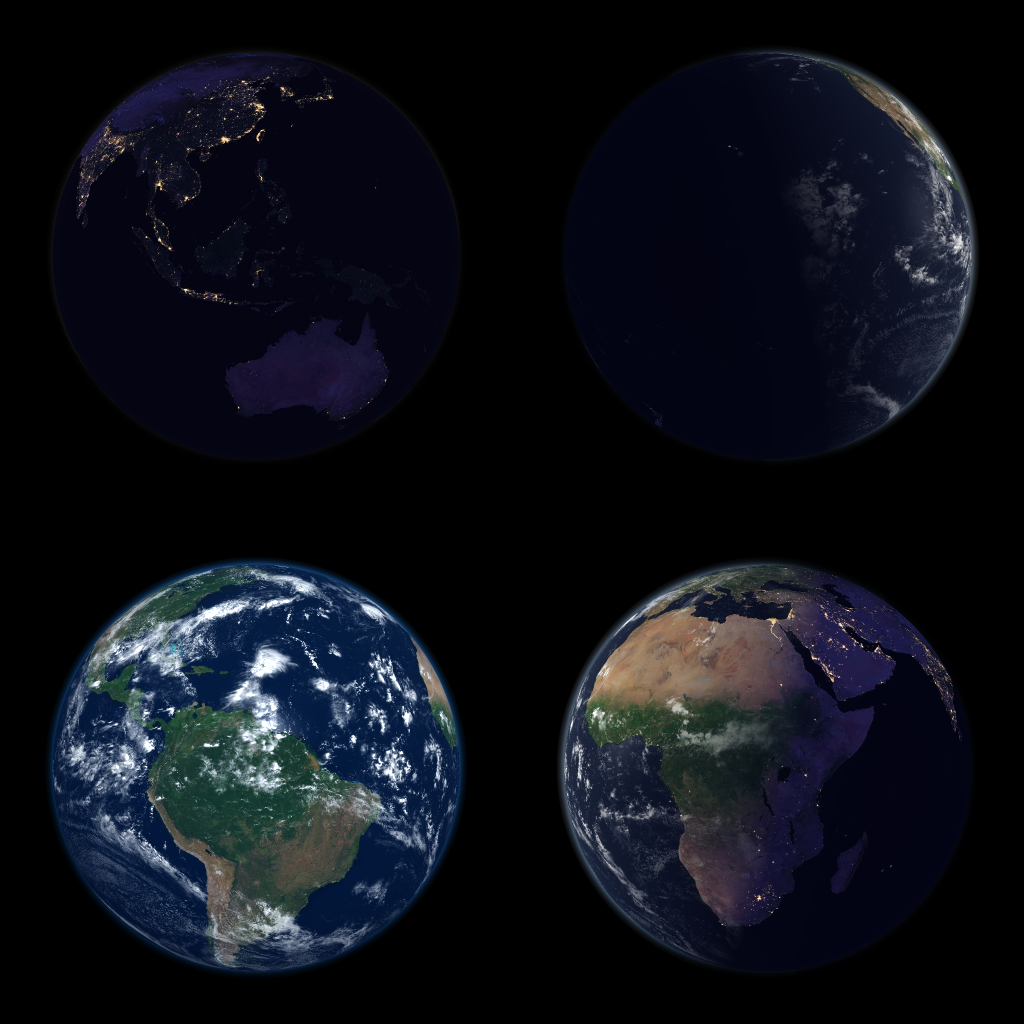
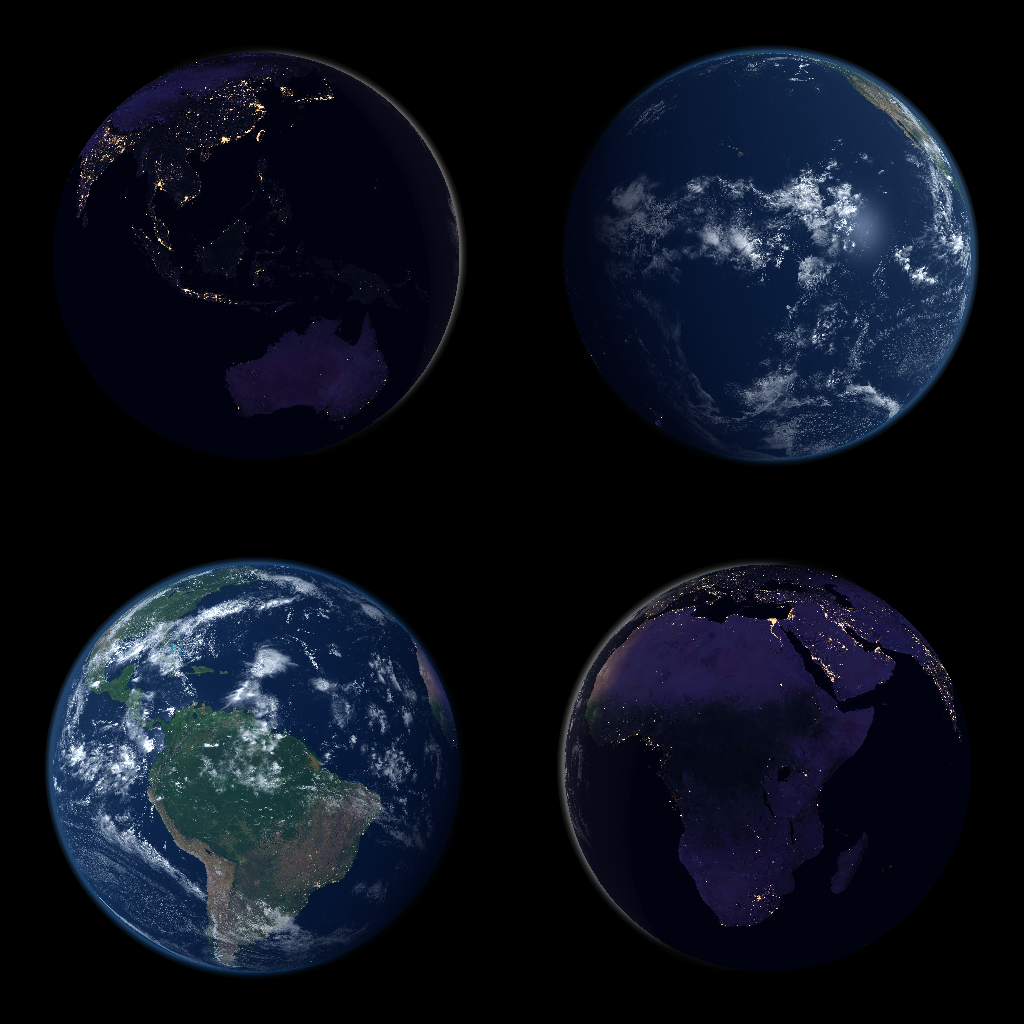
x

diff --git a/render/renderer.go b/render/renderer.go
@@ -77,16 +77,15 @@ func BlendNightDay(ctx *RayContext, CDay, CNight colors.Color4, light float64) c
 // Compute how much sunlight is hitting the surface (soft transition)
 func getLightIntensity(extendedSurfaceNormal, sunDir vectors.Vec3) float64 {
 	sunLightIntensity := extendedSurfaceNormal.Dot(sunDir)
-	light := Smoothstep(-0.25, 0.05, sunLightIntensity)
-	width := 0.2
-	if sunLightIntensity < width/2 {
-		// this is supposed to fade out light as it goes
-		// into the shadow
-		// width -> -width
-		// width -> 0
-		light *= Clip((sunLightIntensity+width/2)/width, 0, 1)
-	}
-	return light
+	// width := 0.2
+	// if math.Abs(sunLightIntensity) < width/2 {
+	// 	// this is supposed to fade out light as it goes
+	// 	// into the shadow
+	// 	return Clip((sunLightIntensity+width/2)/width, 0, 1)
+	// }
+
+	// return sunLightIntensity
+	return Clip(sunLightIntensity, 0, 1)
 }
 
 // RenderEarthSurface renders the visible surface color at the intersection point.
@@ -266,8 +265,8 @@ func RenderScene(
 // ApplyAtmosphereOverlay simulates atmospheric scattering along the view ray using ray tracing.
 // It accounts for Rayleigh scattering, Earth's shadow, backlighting, and rays passing through thin air.
 func ApplyAtmosphereOverlay(ctx *RayContext, base colors.Color4) colors.Color4 {
-	const H = 100.0
-	const rayleighStrength = 0.08
+	const H = 80.0
+	const rayleighStrength = 0.3
 
 	if !ctx.HitsAtmosphere {
 		return base
@@ -275,7 +274,8 @@ func ApplyAtmosphereOverlay(ctx *RayContext, base colors.Color4) colors.Color4 {
 
 	hitShadow, tShadowEntry, tShadowExit := intersectHalfCylinderForward(ctx.Origin, ctx.RayDir, ctx.SunDir.Scale(-1), earth.Radius)
 
-	litLen := ctx.AtmosphereExitT - ctx.AtmosphereEntryT
+	pathInAtmosphere := ctx.AtmosphereExitT - ctx.AtmosphereEntryT
+	litLen := pathInAtmosphere
 	unlitLen := 0.0
 	if hitShadow {
 		shadowStart := math.Max(ctx.AtmosphereEntryT, tShadowEntry)
@@ -283,17 +283,8 @@ func ApplyAtmosphereOverlay(ctx *RayContext, base colors.Color4) colors.Color4 {
 
 		if shadowEnd > shadowStart {
 			shadowLen := shadowEnd - shadowStart
-
-			if litLen > shadowLen && !ctx.HitEarth {
-				// skip the area that is pure air but partially affected by shadow
-				// without this we have an ugly V shape where the atmosphere fades into darkness
-				// with darkess bitween the surface of the planet and the lit upper region
-				// alphaCorr = math.Exp(-shadowLen)
-
-			} else {
-				litLen -= shadowLen
-				unlitLen += shadowLen
-			}
+			litLen -= shadowLen
+			unlitLen += shadowLen
 		}
 	}
 
@@ -301,20 +292,26 @@ func ApplyAtmosphereOverlay(ctx *RayContext, base colors.Color4) colors.Color4 {
 		return base
 	}
 
-	tMid := (ctx.AtmosphereExitT + ctx.AtmosphereEntryT) * 0.5
+	tMid := (ctx.AtmosphereEntryT + ctx.AtmosphereExitT) * 0.5
+
+	lightIntensity := 1.0
 	midPoint := ctx.Origin.Add(ctx.RayDir.Scale(tMid))
 	avgHeight := midPoint.Norm() - earth.Radius
+	entryNormal := ctx.Origin.Add(ctx.RayDir.Scale(ctx.AtmosphereEntryT)).Normalize()
+	litAmount := math.Log(litLen)
+
+	lightIntensity = getLightIntensity(entryNormal, ctx.SunDir)
+	if !ctx.HitEarth {
+		// sun can lit from the back of the planet
+		exitNormal := ctx.Origin.Add(ctx.RayDir.Scale(ctx.AtmosphereExitT)).Normalize()
+		l2 := getLightIntensity(exitNormal, ctx.SunDir)
+		lightIntensity = math.Max(lightIntensity, l2)
+	}
+
 	avgDensity := math.Exp(-avgHeight / H)
 
-	// Light amount modulated by density
-	litAmount := math.Log(litLen+unlitLen) * avgDensity * rayleighStrength
-	litAmount = Clip(litAmount, 0.0, 1.0)
-
-	if !ctx.HitEarth {
-		litAmount *= getLightIntensity(midPoint.Normalize(), ctx.SunDir)
-	} else {
-		litAmount *= getLightIntensity(ctx.SurfaceNormal, ctx.SunDir)
-	}
+	litAmount *= (0.1 + lightIntensity) * avgDensity * rayleighStrength
+	litAmount = Clip(litAmount, 0, 1)
 
 	// Hue shift: warm when near sun, cool away
 	viewToSun := ctx.SunDir.Dot(ctx.RayDir) // [-1, 1]
@@ -328,9 +325,22 @@ func ApplyAtmosphereOverlay(ctx *RayContext, base colors.Color4) colors.Color4 {
 
 	wNight := unlitLen / (litLen + unlitLen + 1e-5)
 	tint := skyColor.MixAlpha(ctx.theme.NightSky, wNight)
-	out := base.Add(tint.Scale(litAmount))
+	out := base.MixAlpha(tint, litAmount)
 	return out
 
+}
+
+func ClosestPointOnRayToOrigin(origin, dir vectors.Vec3) vectors.Vec3 {
+	den := dir.Dot(dir)
+	if den == 0 {
+		// direction is zero vector -> ray is just a point
+		return origin
+	}
+	t := -origin.Dot(dir) / den
+	if t < 0 {
+		return origin
+	}
+	return origin.Add(dir.Scale(t))
 }
 
 func Lerp(a, b, t float64) float64 {
@@ -389,7 +399,7 @@ func RenderSunDisk(ctx *RayContext, base colors.Color4) colors.Color4 {
 	sunIntensity := math.Pow(t, 2.0)
 
 	// Blend the glow onto the base
-	return base.Mix(sunColor, sunIntensity)
+	return base.MixAlpha(sunColor, sunIntensity)
 }
 
 func SunVisibleFraction(camPos, sunDir vectors.Vec3) float64 {

diff --git a/main.go b/main.go
@@ -38,7 +38,7 @@ func defineFlags() config {
 		tilt: flag.Float64("tilt", 0.0, "Camera tilt in degrees"),
 
 		size:        flag.Int("size", 1024, "Output image size (width/height in pixels)"),
-		supersample: flag.Int("supersample", 3, "Supersampling factor (higher is slower but smoother)"),
+		supersample: flag.Int("supersample", 1, "Supersampling factor (higher is slower but smoother)"),
 		timeStr:     flag.String("time", "", "Time in RFC3339 format (e.g., 2025-08-02T15:04:05Z); defaults to now"),
 
 		out: flag.String("out", "earth_view.png", "Output PNG file path"),
@@ -93,7 +93,7 @@ func main() {
 
 	theme := render.Theme{
 		DaySky:   colors.New(0.25, 0.60, 1.00, 0.5),
-		NightSky: colors.New(0.15, 0.07, 0.20, 0.5),
+		NightSky: colors.New(0.043, 0.047, 0.063, 0.5),
 		Warm:     colors.New(1.02, 1.0, 0.98, 1.0),
 		Day:      *cfg.day,
 		Night:    *cfg.night,

diff --git a/vectors/vec3.go b/vectors/vec3.go
@@ -65,3 +65,7 @@ func (v Vec3) Orthogonal() Vec3 {
 	// otherwise, cross with Y axis
 	return v.Cross(Vec3{0, 1, 0}).Normalize()
 }
+
+func Distance(v1, v2 Vec3) float64 {
+	return v1.Sub(v2).Norm()
+}
